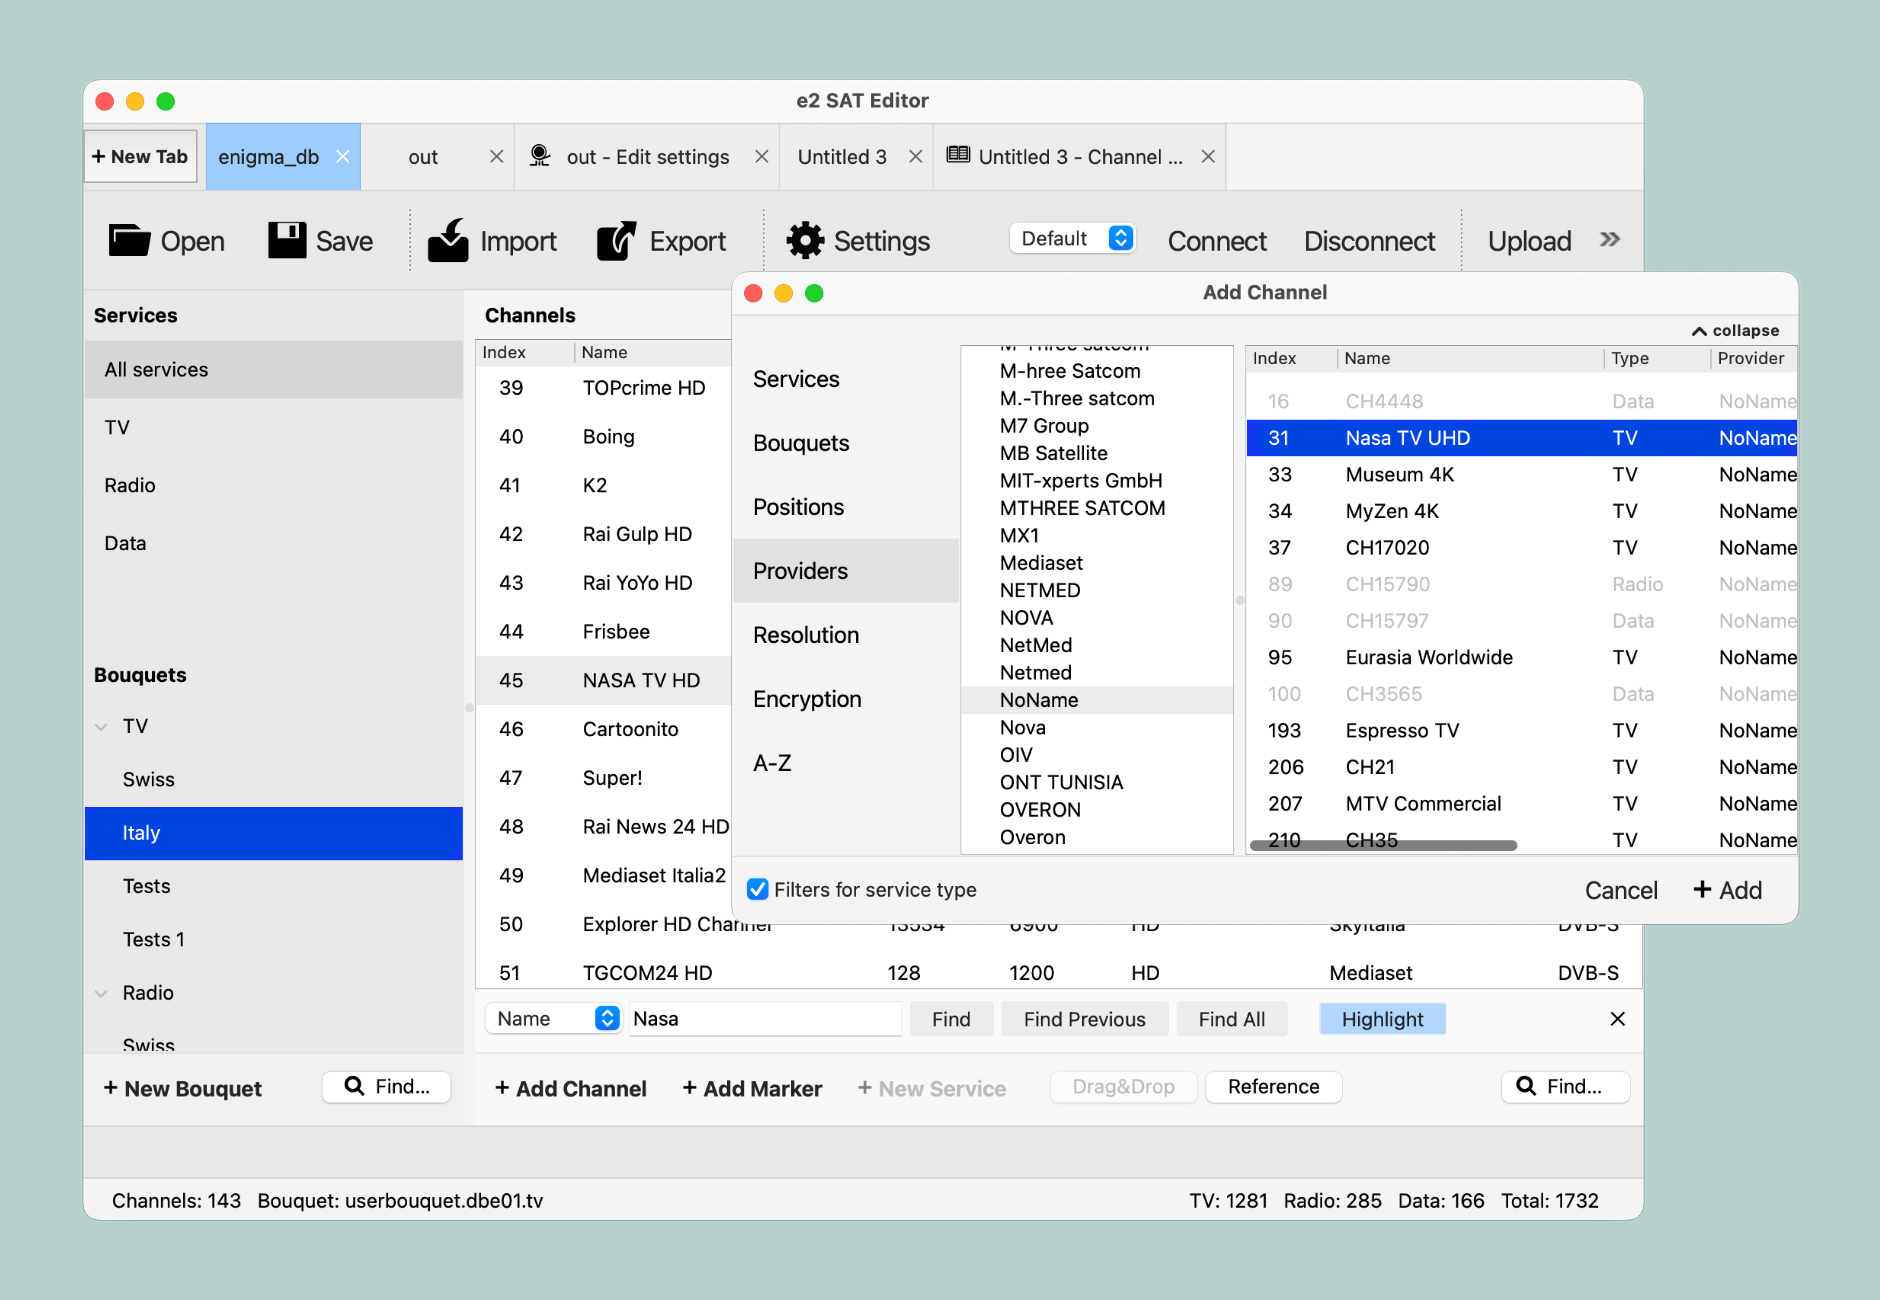
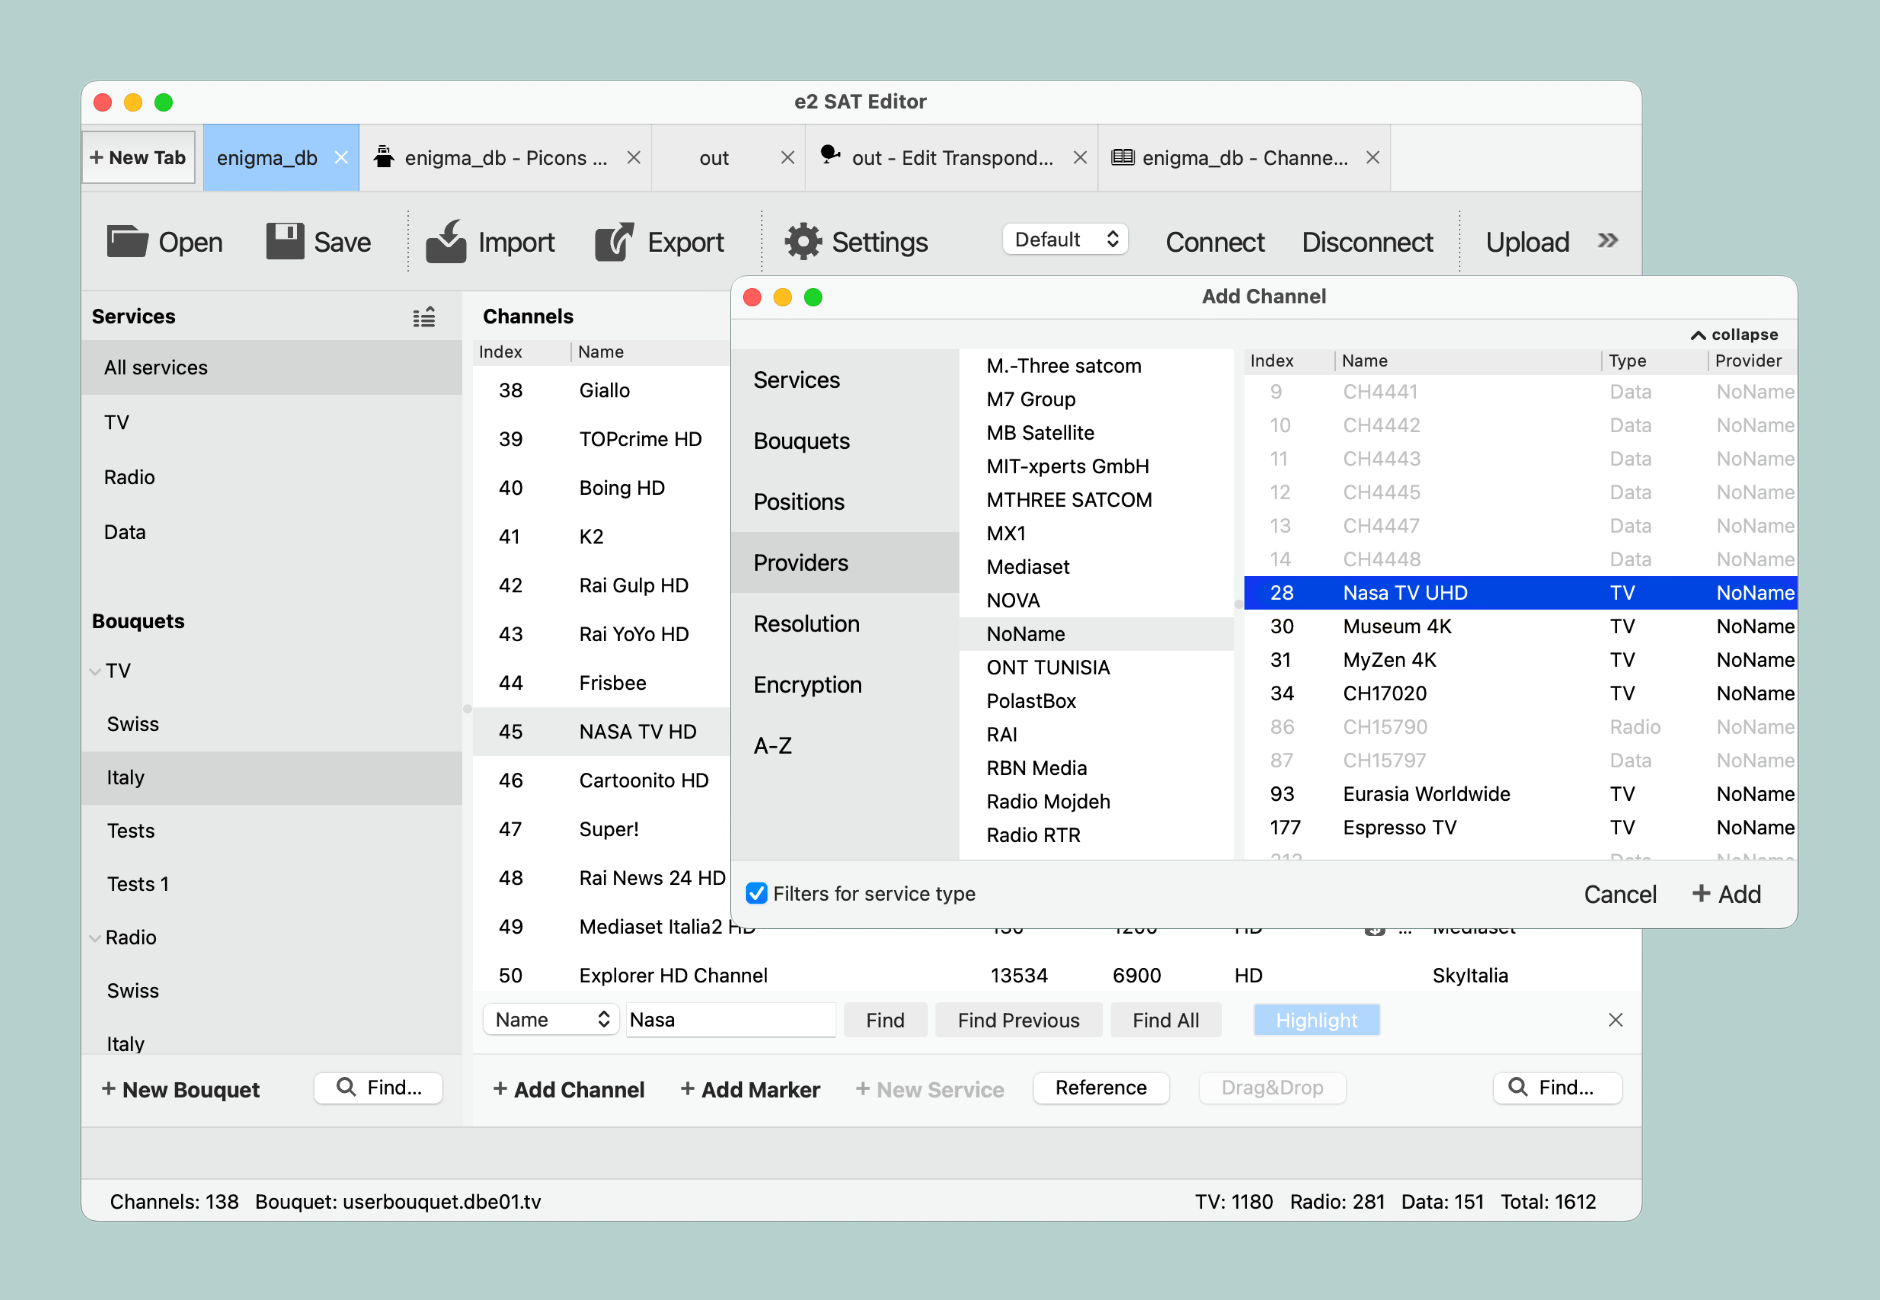
updated screenshot, README.md

diff --git a/src/gui/gui.cpp b/src/gui/gui.cpp
@@ -171,7 +171,7 @@ gui::gui(int argc, char* argv[])
 	}
 
 	// screenshot
-	// mwid->resize(QSize(1024, 720));
+	// mwid->setGeometry(280, 120, 1024, 720);
 
 	mroot->exec();
 }

diff --git a/README.md b/README.md
@@ -4,7 +4,9 @@ e2 SAT Editor is a satellite channel lists editor, for Enigma2, Neutrino, dreamb
 
 <img src="https://github.com/ctlcltd/e2-sat-editor/raw/main/res/e2-sat-editor.svg" width="192" height="192" alt="e2 SAT Editor (icon)" title="Icon">
 
-It has tabbed navigation with global Cut-Copy-Paste support; Drag and Drop support; import and export of Lamedb, bouquets and userbouquets; FTP support; tools for sorting and management of channel lists; Picons editor; non-destructive editing; dark and light themes.
+It has tabbed navigation with global Cut-Copy-Paste support; Drag and Drop support; import and export of Lamedb, bouquets and userbouquets; FTP support; tools for sorting and management of channel lists; non-destructive editing; dark and light themes.
+
+**Now with built-in Picons editor!**
 
 It supports both Enigma2, Lamedb 4 and Lamedb 5 formats (2.4 and 2.5) and Enigma1 (2.3 and 2.2).
 
